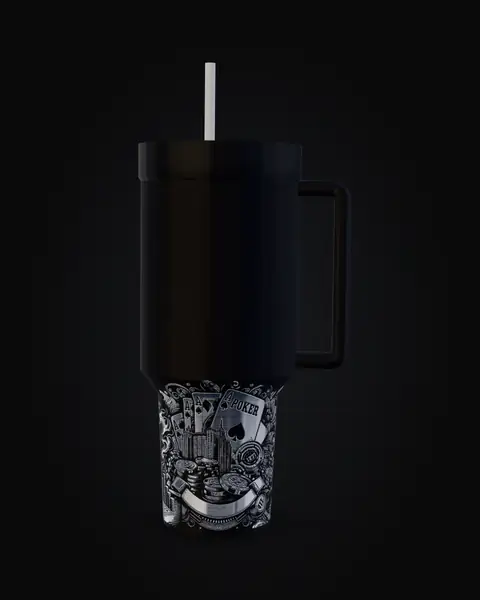
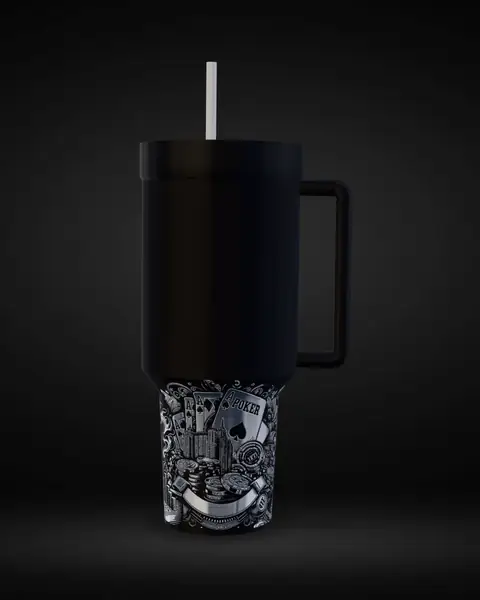
Fundo do heroi: parede escura de estudio (mesma imagem nos dois projetos)

Changed region(s): [[0.1562, 0.63, 0.8125, 0.93], [0.4062, 0.09, 0.4688, 0.24], [0.625, 0.36, 0.6562, 0.39]]

diff --git a/src/styles/hero.css b/src/styles/hero.css
@@ -2,7 +2,9 @@
   position: relative; isolation: isolate; overflow: hidden;
   height: 100vh; height: 100svh; color: var(--ink); transition: color 0.5s;
 }
-.hero-bg { position: absolute; inset: 0; z-index: -2; background: radial-gradient(ellipse at 50% 55%, #1a1b1f 0%, var(--bg) 62%); }
+/* fundo único dos dois projetos: parede escura de estúdio (com brilho no chão) */
+.hero-bg { position: absolute; inset: 0; z-index: -2; background: var(--bg); }
+.hero-bg img { width: 100%; height: 100%; object-fit: cover; object-position: 50% 60%; }
 
 
 

diff --git a/index.html b/index.html
@@ -53,7 +53,7 @@
 
     <main id="conteudo">
       <section class="hero" id="topo" aria-labelledby="hero-title" data-hero>
-        <div class="hero-bg" aria-hidden="true"></div>
+        <div class="hero-bg" aria-hidden="true"><img src="/img/bg-1920.webp" srcset="/img/bg-960.webp 960w, /img/bg-1920.webp 1920w" sizes="100vw" width="1920" height="1280" alt="" decoding="async" /></div>
 
         <div class="cup-stage">
           <model-viewer

diff --git a/README.md b/README.md
@@ -28,7 +28,7 @@ performance tratada como requisito, com cada otimização justificada por um nú
 - **Responsivo de verdade**: no celular o menu é próprio (painel em tela cheia, foco preso, Esc fecha), o estúdio vira uma folha inferior e a textura de gravação usa 1024 px em vez de 2048.
 
 > **v2 (24/11/2026):** copo real no lugar do gerado por código; sem os elementos 3D decorativos, faíscas, nome e cor da pintura; fundo preto fixo.
-> Números da v2 (mediana de 3, Lighthouse 13.6, local): celular **94 · 100 · 100 · 100** (TBT 291 ms, 0,59 MB), desktop **100 · 100 · 100 · 100** (TBT 34 ms, 0,55 MB). Com o mouse
+> Números da v2 (mediana de 3, Lighthouse 13.6, local): celular **92 · 100 · 100 · 100** (TBT 356 ms, 0,60 MB), desktop **100 · 100 · 100 · 100** (TBT 45 ms, 0,56 MB). Com o mouse
 > mexendo: **0 recálculos de estilo/s** no desktop (7 no celular) e **4,1%** da thread principal no desktop (4,8% no celular), contra 36% na v0. Só `cup.glb` (51 KB) vai
 > para a rede. As seções sobre elementos, faíscas, nome e cor abaixo descrevem a v0/v1 e continuam no histórico do git.
 

diff --git a/CLAUDE.md b/CLAUDE.md
@@ -68,3 +68,4 @@ O README é a vitrine (decisões + números antes/depois). Ler o README antes de
   removidos (histórico do git). `text` e `paint` continuam nos temas (nome vazio, preto) porque `engrave.js` ainda os suporta.
 - As seções acima que falam de nome na parte larga, cor da pintura na alça/tampa e elementos descrevem o que o código ainda suporta; a UI não expõe mais.
 - Hero com `height: 100vh` exato (sem altura mínima).
+- Fundo do herói: `public/img/bg-960.webp` e `bg-1920.webp` (parede escura de estúdio, 2 e 7 KB), em um `<img>` com `srcset`; é o mesmo arquivo do `latinhas-3d`. Original: `~/Downloads/dark-plain-gray-wall-product-background.jpg`. A outra imagem que o Erick mandou (concreto grunge preto) não está em uso.

diff --git a/reports/images.md b/reports/images.md
@@ -1,7 +1,7 @@
 | Imagem | PNG original (2x) | WebP 480 | WebP 960 |
 |---|---:|---:|---:|
-| card-boiadeira | 1122.0 KB | 4.4 KB | 15.5 KB |
-| card-constelacao | 796.0 KB | 2.2 KB | 5.9 KB |
-| card-mandala | 1009.9 KB | 5.2 KB | 14.4 KB |
-| card-poker | 1261.6 KB | 5.7 KB | 20.0 KB |
-| og (compartilhamento) | 250.6 KB | 35.4 KB (JPG 1200) | |
+| card-boiadeira | 495.5 KB | 4.9 KB | 16.0 KB |
+| card-constelacao | 198.9 KB | 2.6 KB | 6.5 KB |
+| card-mandala | 407.0 KB | 5.6 KB | 14.9 KB |
+| card-poker | 643.0 KB | 6.1 KB | 20.5 KB |
+| og (compartilhamento) | 124.0 KB | 38.3 KB (JPG 1200) | |

diff --git a/reports/lighthouse-v2.md b/reports/lighthouse-v2.md
@@ -2,6 +2,6 @@
 
 | | Performance | Acessibilidade | Boas Práticas | SEO | FCP | LCP | TBT | CLS | Peso | Requisições |
 |---|---:|---:|---:|---:|---:|---:|---:|---:|---:|---:|
-| Celular | 94 | 100 | 100 | 100 | 0.9 s | 0.9 s | 291 ms | 0.000 | 0.59 MB | 17 |
-| Desktop | 100 | 100 | 100 | 100 | 0.3 s | 0.3 s | 34 ms | 0.000 | 0.55 MB | 17 |
+| Celular | 92 | 100 | 100 | 100 | 0.8 s | 0.8 s | 356 ms | 0.000 | 0.60 MB | 18 |
+| Desktop | 100 | 100 | 100 | 100 | 0.3 s | 0.3 s | 45 ms | 0.000 | 0.56 MB | 18 |
 
